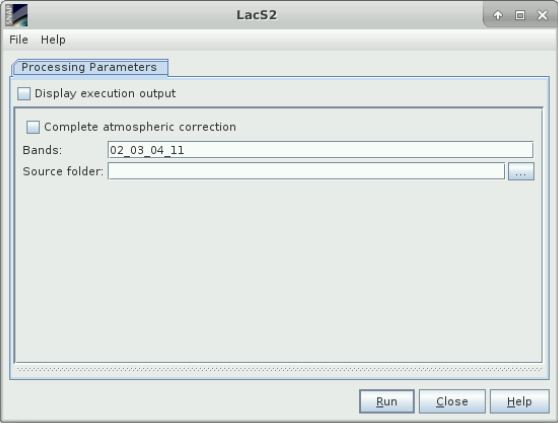
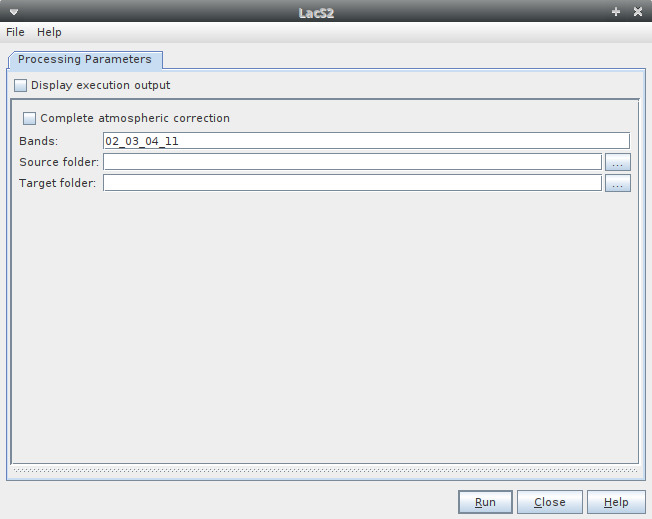
update s24sci helpers

Changed region(s): [[0.0, 0.0, 1.0, 1.0]]

diff --git a/s24scilws-help/src/main/javahelp/org/esa/s2tbx/s24scilws/s24scilws/help/docs/Toposhadow/ToposhadowAlgoSpec.html b/s24scilws-help/src/main/javahelp/org/esa/s2tbx/s24scilws/s24scilws/help/docs/Toposhadow/ToposhadowAlgoSpec.html
@@ -16,7 +16,7 @@
 
 <html>
 <head>
-    <title>Topographic Shadow - Algorithm Specification</title>
+    <title>Topographic Shadows - Algorithm Specification</title>
     <meta http-equiv="Content-Type" content="text/html; charset=iso-8859-1">
     <link rel="stylesheet" href="../style.css">
 </head>
@@ -25,12 +25,12 @@
 <table class="header">
     <tr class="header">
         <td class="header">&nbsp;
-            Topographic Shadow Algorithm Specification</td>
+            Topographic Shadows Algorithm Specification</td>
         <td class="header" align="right"><a href="nbdocs://org.esa.snap.snap.help/org/esa/snap/snap/help/docs/general/overview/SnapOverview.html"><img src="../images/snap_header.jpg" border=0></a></td>
     </tr>
 </table>
 
-<h3>Topographic Shadow</h3>
+<h3>Topographic Shadows</h3>
 
 <p>
     It is proposed a simple approach for detection and masking of topographic shadows.
@@ -94,7 +94,7 @@ python setup.py install<br>
 
 <hr>
 
-<h5>Topographic Shadow parameters</h5>
+<h5>Topographic Shadows parameters</h5>
 <table border="0" cellpadding="1" cellspacing="1">
     <thead>
     <tr>
@@ -136,11 +136,11 @@ python setup.py install<br>
     </tbody>
 </table>
 
-<h5>Topographic Shadow User Interface</h5>
+<h5>Topographic Shadows User Interface</h5>
 <p>
     The parameters described above can be set through the graphical user interface designed in the SNAP Desktop component:
 </p>
-<img src="../images/topoGUI.jpg" border=0/>
+<img src="../images/toposhadowGUI.jpg" border=0/>
 
 </body>
 </html>

diff --git a/s24scilws-help/src/main/javahelp/org/esa/s2tbx/s24scilws/s24scilws/help/docs/Toposhadow/ToposhadowTool.html b/s24scilws-help/src/main/javahelp/org/esa/s2tbx/s24scilws/s24scilws/help/docs/Toposhadow/ToposhadowTool.html
@@ -16,7 +16,7 @@
 
 <html>
 <head>
-    <title>Topographic Shadow Operator</title>
+    <title>Topographic Shadows Operator</title>
     <meta http-equiv="Content-Type" content="text/html; charset=iso-8859-1">
     <link rel="stylesheet" href="../style.css">
 </head>
@@ -25,7 +25,7 @@
 <table class="header">
     <tr class="header">
         <td class="header">&nbsp;
-            Topographic Shadow Operator</td>
+            Topographic Shadows Operator</td>
         <td class="header" align="right"><a href="nbdocs://org.esa.snap.snap.help/org/esa/snap/snap/help/docs/general/overview/SnapOverview.html"><img src="../images/snap_header.jpg" border=0></a></td>
     </tr>
 </table>
@@ -36,7 +36,7 @@
 </p>
 
 <p><br/></p>
-<p><b><a href="topoAlgoSpec.html">topshadow Algorithm Specification </a></b></p>
+<p><b><a href="ToposhadowAlgoSpec.html">Topographic Shadows Algorithm Specification </a></b></p>
 
 <p><br/></p>
 <p><b><a href="../s24scilwsOperatorsIndexList.html">Back to S2-4Sci Land and Water Study Modules List</a></b></p>

diff --git a/s24scilws-help/src/main/javahelp/org/esa/s2tbx/s24scilws/s24scilws/help/docs/LAC/LACAlgoSpec.html b/s24scilws-help/src/main/javahelp/org/esa/s2tbx/s24scilws/s24scilws/help/docs/LAC/LACAlgoSpec.html
@@ -120,9 +120,14 @@ Take care to use the appropriate python executable (Use python VM is better).
         </td>
     </tr>
     <tr>
-        <td><strong>sourceFolder</strong></td>
+        <td><strong>Source Folder</strong></td>
         <td>The path to a folder of a Sentinel-2 tile.
             (For example: /Data/S2/S2B_MSIL1C_20180328T003659_N0206_R059_T55LCD_20180328T021112.SAFE/GRANULE/L1C_T55LCD_A005519_20180328T003700)
+        </td>
+    </tr>
+    <tr>
+        <td><strong>Target Folder</strong></td>
+        <td>The path to the root folder where the output product will be created.
         </td>
     </tr>
     </tbody>

diff --git a/s24scilws-help/src/main/javahelp/org/esa/s2tbx/s24scilws/s24scilws/help/docs/s24scilwsOperatorsIndexList.html b/s24scilws-help/src/main/javahelp/org/esa/s2tbx/s24scilws/s24scilws/help/docs/s24scilwsOperatorsIndexList.html
@@ -28,7 +28,7 @@
     </tr>
 
     <tr>
-        <td><h3><b><a href="topshadow/topoAlgoSpec.html">topshadow</a></b></h3></td>
+        <td><h3><b><a href="Toposhadow/ToposhadowAlgoSpec.html">Toposhadow</a></b></h3></td>
         <td><h5>Detection and masking of topographic shadows.</h5></td>
     </tr>
 
